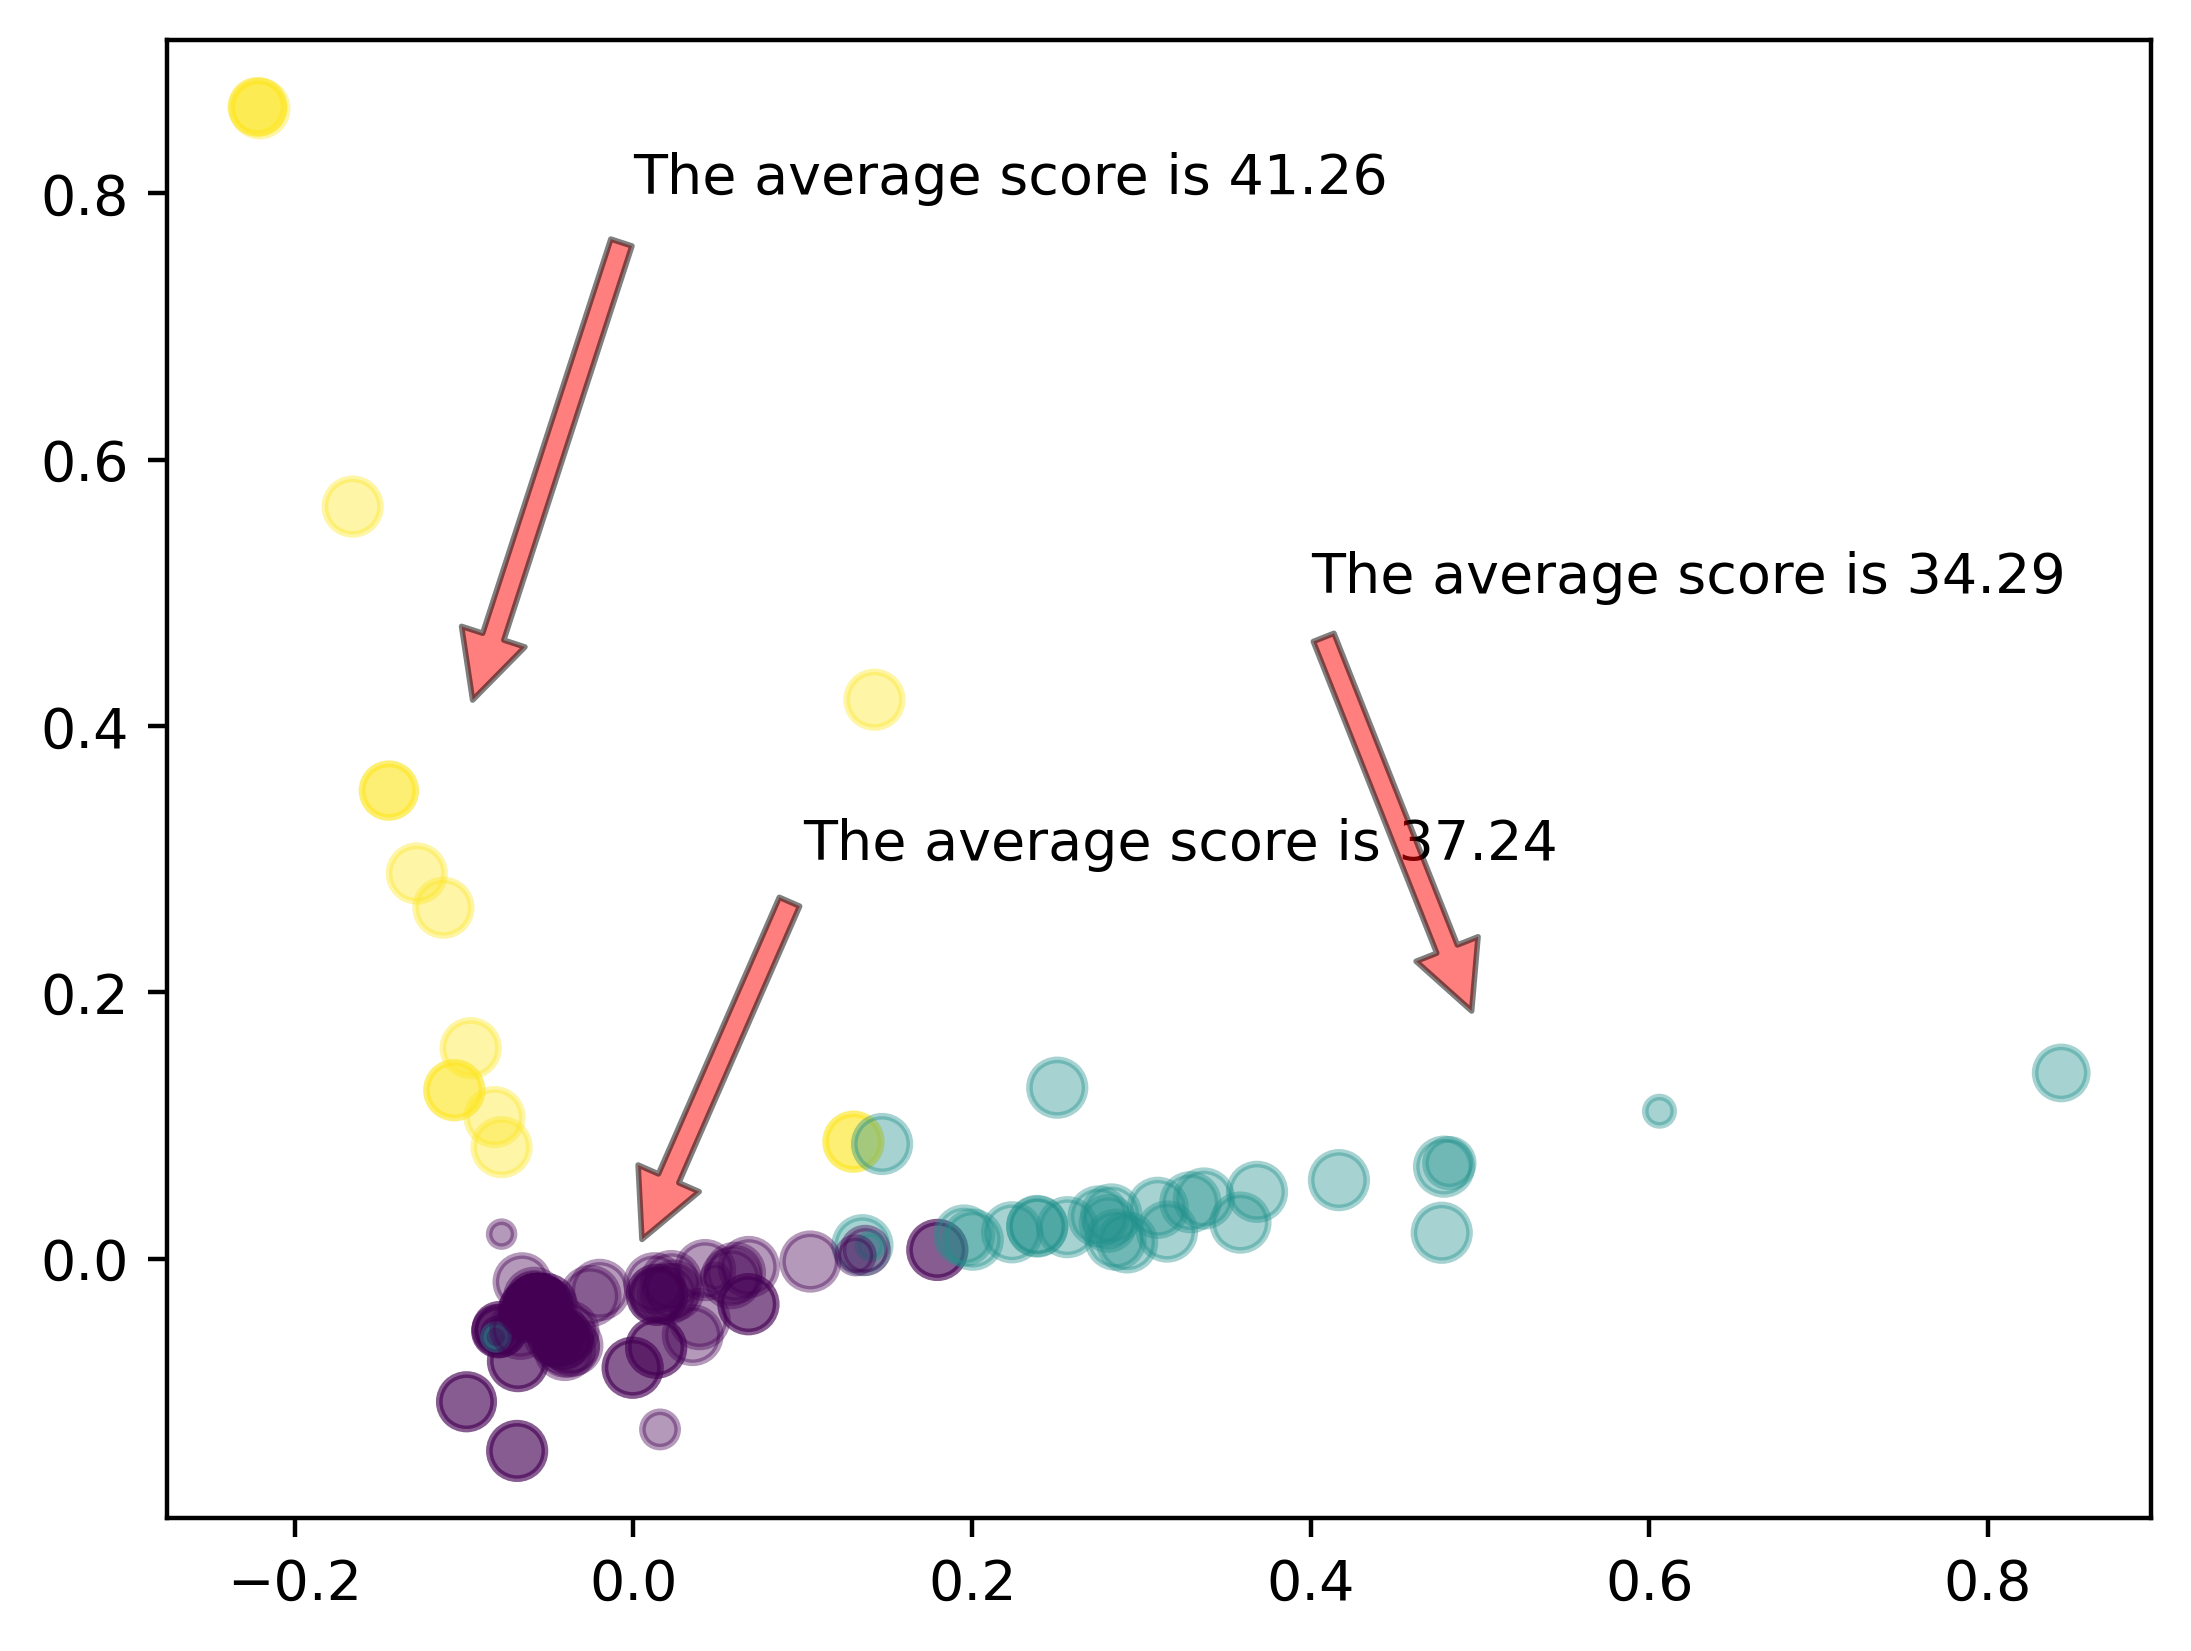
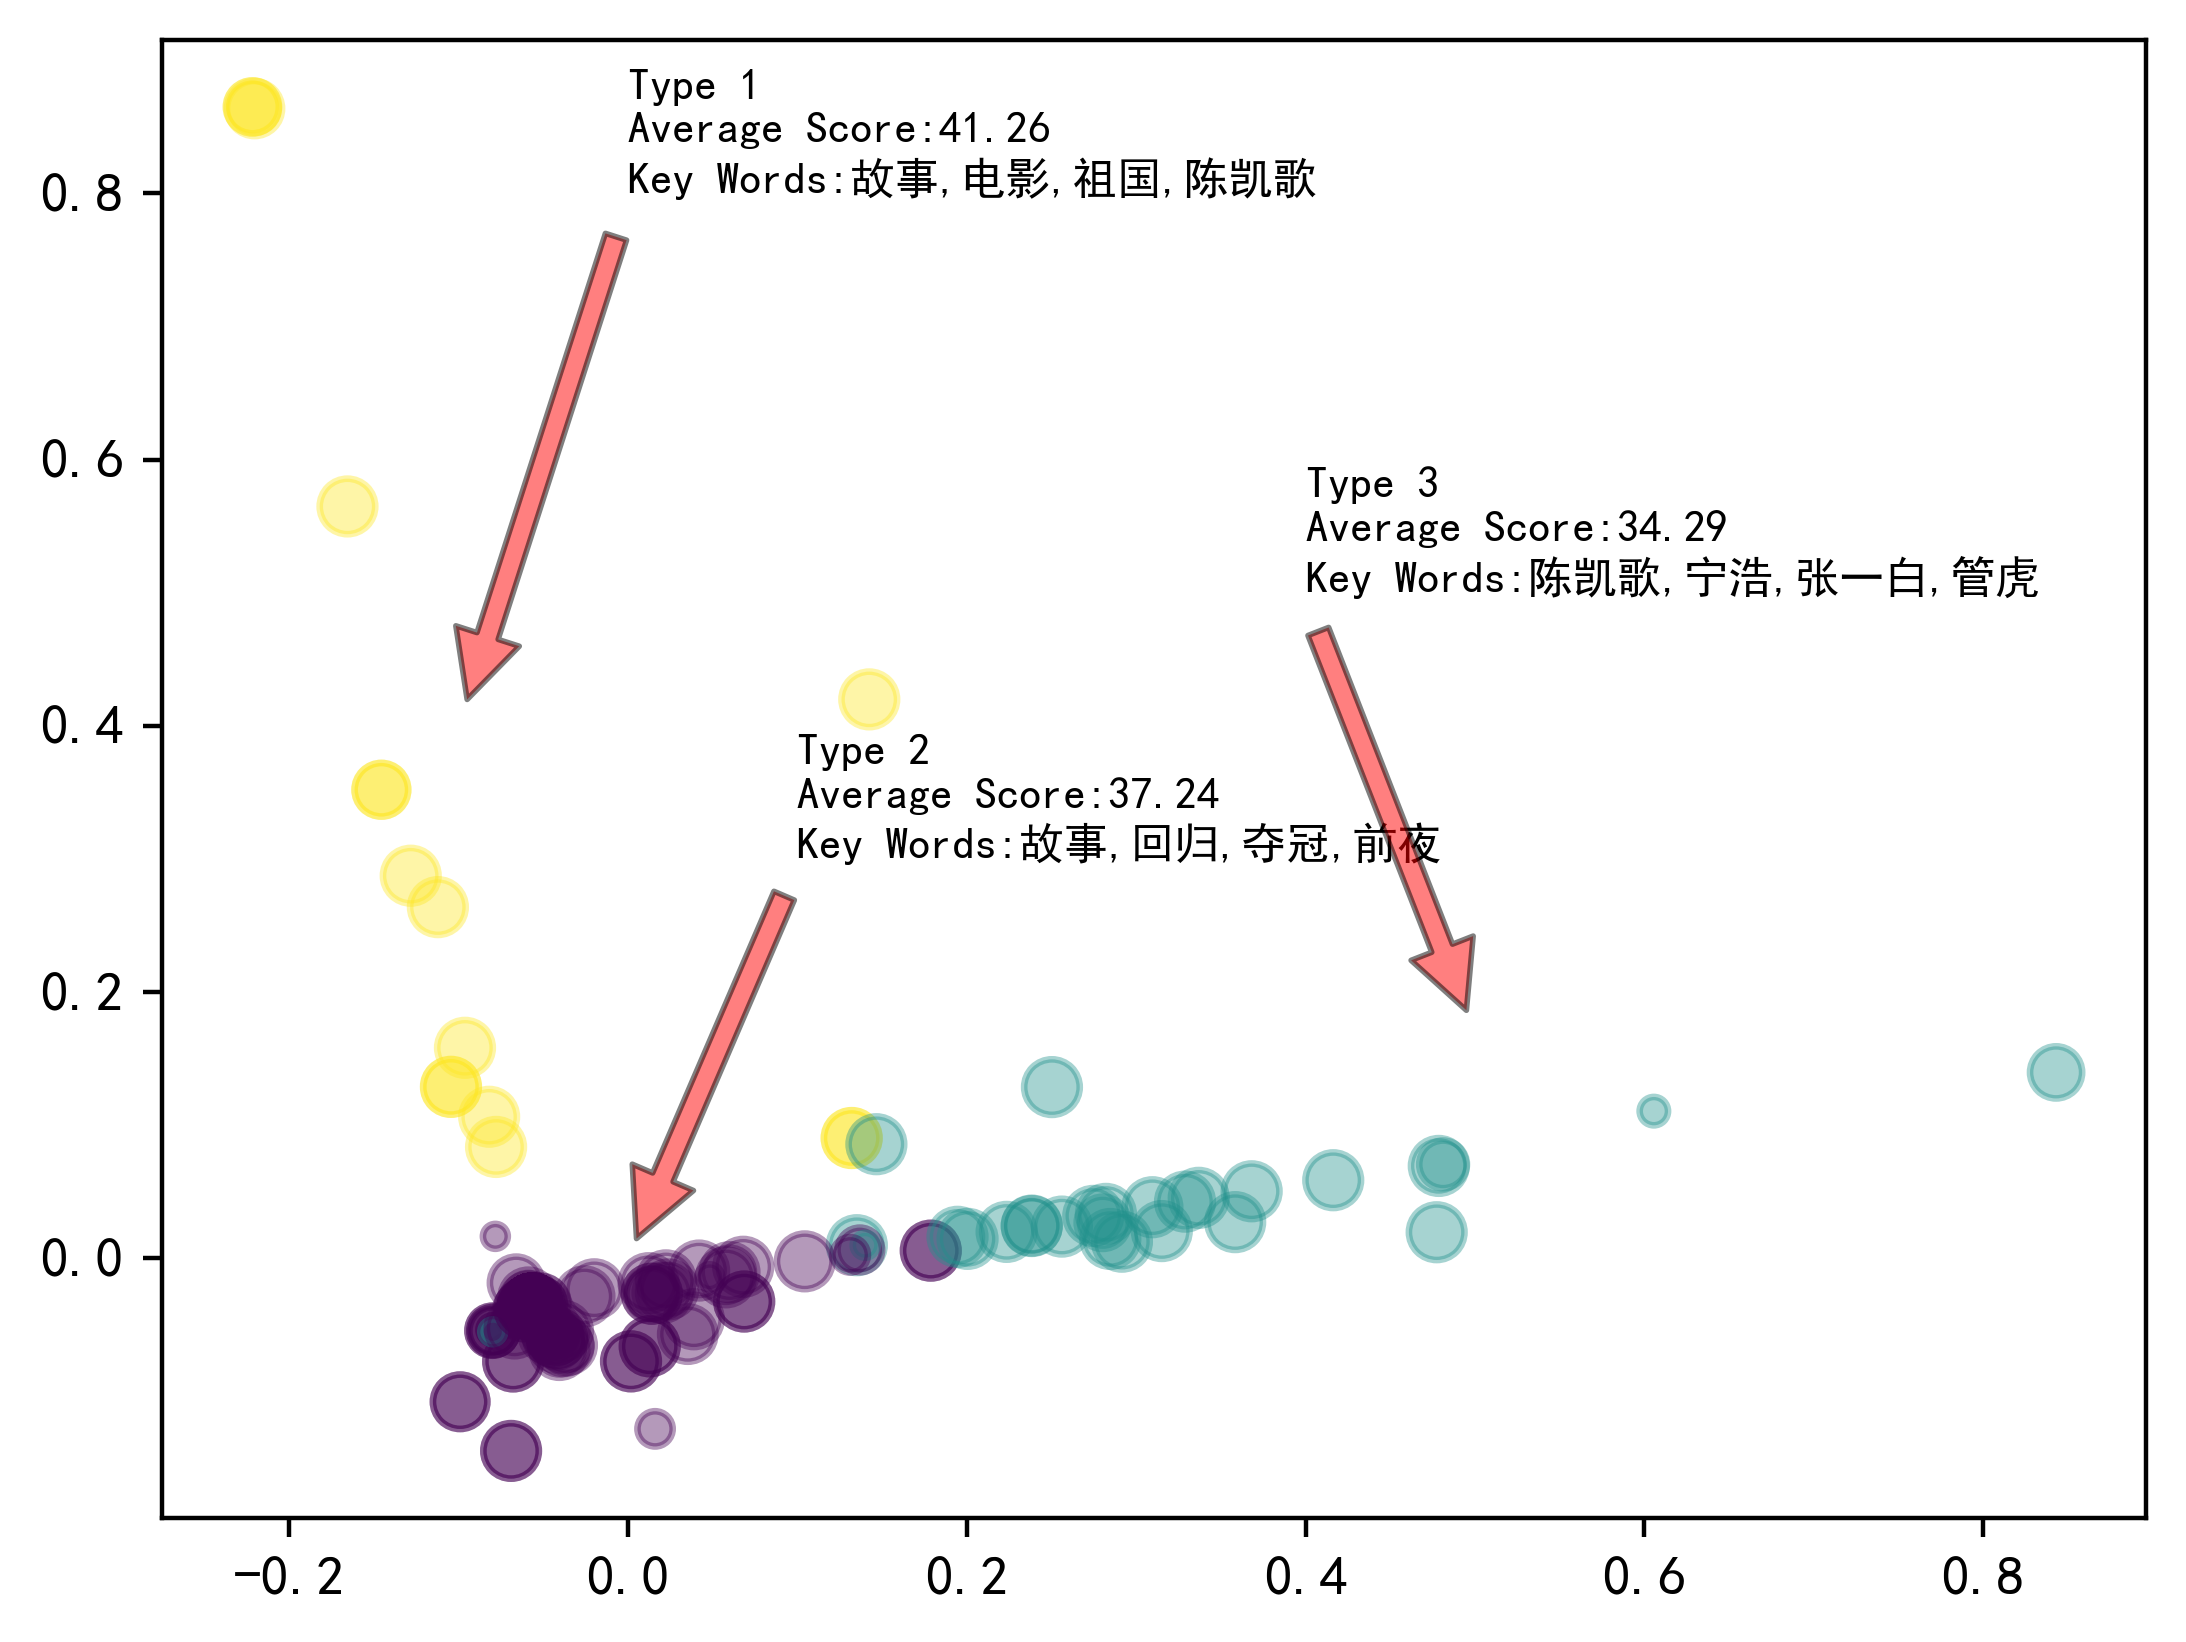
添加分类后提取关键词方法

diff --git a/Paper/Movie/py/tf_idf_k_means.py b/Paper/Movie/py/tf_idf_k_means.py
@@ -12,6 +12,8 @@ from sklearn.feature_extraction.text import TfidfVectorizer
 from sklearn.cluster import KMeans
 from sklearn.decomposition import PCA
 import matplotlib.pyplot as plt
+from textrank4zh import TextRank4Keyword
+
 from Paper.Movie.util import wordUtil
 
 # 设置显示pd所有行
@@ -90,15 +92,55 @@ score_mean1 = data_m.iloc[list(data_m['label'] == 0), 2].astype('float').mean()
 score_mean2 = data_m.iloc[list(data_m['label'] == 1), 2].astype('float').mean()
 score_mean3 = data_m.iloc[list(data_m['label'] == 2), 2].astype('float').mean()
 print('score_mean1:', score_mean1)
+'''获得每一类的关键词'''
+print('data:\n', data)
+label_0_list = data.loc[list(data['label'] == 0), '评论内容'].values
+label_1_list = data.loc[list(data['label'] == 1), '评论内容'].values
+label_2_list = data.loc[list(data['label'] == 2), '评论内容'].values
+sentence_0 = '。'.join(label_0_list)
+sentence_1 = '。'.join(label_1_list)
+sentence_2 = '。'.join(label_2_list)
+key_words_num = 4
+words = TextRank4Keyword()
+words.analyze(text=sentence_0, lower=True, window=key_words_num)
+keywords_dic_list = words.get_keywords(key_words_num, word_min_len=2)
+keywords_list = []
+for item in keywords_dic_list:
+    keywords_list.append(item['word'])
+keywords0 = ','.join(keywords_list)
 
+words = TextRank4Keyword()
+words.analyze(text=sentence_1, lower=True, window=key_words_num)
+keywords_dic_list = words.get_keywords(key_words_num, word_min_len=2)
+keywords_list = []
+for item in keywords_dic_list:
+    keywords_list.append(item['word'])
+keywords1 = ','.join(keywords_list)
+
+words = TextRank4Keyword()
+words.analyze(text=sentence_2, lower=True, window=key_words_num)
+keywords_dic_list = words.get_keywords(key_words_num, word_min_len=2)
+keywords_list = []
+for item in keywords_dic_list:
+    keywords_list.append(item['word'])
+keywords2 = ','.join(keywords_list)
+print(keywords0)
+print(keywords1)
+print(keywords2)
+# 解决中文显示问题，目前只知道黑体可行
+plt.rcParams['font.sans-serif'] = ['SimHei']
+plt.rcParams['axes.unicode_minus']=False
 # 绘制降维后的分类结果
 plt.scatter(pca_results[:, 0], pca_results[:, 1], alpha=0.4, lw=1.2, s=comments_score, c=data['label'])
 # 绘制箭头
-plt.annotate('The average score is ' + str(round(score_mean1, 2)), xy=(-0.1, 0.4), xytext=(0, 0.8),
+plt.annotate('Type 1 \nAverage Score:' + str(round(score_mean1, 2)) + '\nKey Words:' + keywords0, xy=(-0.1, 0.4),
+             xytext=(0, 0.8), fontsize=8,
              arrowprops=dict(facecolor='red', alpha=0.5, shrink=0.05))  # 添加标注（箭头）（指向位置，文字位置，颜色，透明度，收缩比例）
-plt.annotate('The average score is ' + str(round(score_mean2, 2)), xy=(0, 0), xytext=(0.1, 0.3),
+plt.annotate('Type 2 \nAverage Score:' + str(round(score_mean2, 2)) + '\nKey Words:' + keywords1, xy=(0, 0),
+             xytext=(0.1, 0.3), fontsize=8,
              arrowprops=dict(facecolor='red', alpha=0.5, shrink=0.05))  # 添加标注（箭头）（指向位置，文字位置，颜色，透明度，收缩比例）
-plt.annotate('The average score is ' + str(round(score_mean3, 2)), xy=(0.5, 0.17), xytext=(0.4, 0.5),
+plt.annotate('Type 3 \nAverage Score:' + str(round(score_mean3, 2)) + '\nKey Words:' + keywords2, xy=(0.5, 0.17),
+             xytext=(0.4, 0.5), fontsize=8,
              arrowprops=dict(facecolor='red', alpha=0.5, shrink=0.05))  # 添加标注（箭头）（指向位置，文字位置，颜色，透明度，收缩比例）
 plt.savefig('../pic/k-means.png', dpi=400, bbox_inches='tight')
 plt.show()

diff --git a/Paper/Movie/py/score_byarea.py b/Paper/Movie/py/score_byarea.py
@@ -82,35 +82,35 @@ ax.plot(x1, y1, color='b', alpha=0.6)
 
 x_t = list(red_list.keys())
 y_t = list(red_list.values())
-ax.scatter(x_t, y_t, color='g', alpha=0.8, label='Operation Red Sea')
+ax.scatter(x_t, y_t, color='g', alpha=0.6, label='Operation Red Sea')
 a2, b2 = curve_fit(curve_fit_fun, x_t, y_t)[0]
 x2 = np.arange(min(x_t), max(x_t) + 1, 1)
 y2 = a2 * x2 + b2
-ax.plot(x2, y2, color='g', alpha=0.8)
+ax.plot(x2, y2, color='g', alpha=0.6)
 
 x_t = list(th_list.keys())
 y_t = list(th_list.values())
-ax.scatter(x_t, y_t, color='r', alpha=0.8, label='Three Billboards Outside')
+ax.scatter(x_t, y_t, color='r', alpha=0.6, label='Three Billboards Outside')
 a3, b3 = curve_fit(curve_fit_fun, x_t, y_t)[0]
 x3 = np.arange(min(x_t), max(x_t) + 1, 1)
 y3 = a3 * x3 + b3
-ax.plot(x3, y3, color='r', alpha=0.8)
+ax.plot(x3, y3, color='r', alpha=0.6)
 
 x_t = list(earth_list.keys())
 y_t = list(earth_list.values())
-ax.scatter(x_t, y_t, color='c', alpha=0.8, label='The Wandering Earth')
+ax.scatter(x_t, y_t, color='c', alpha=0.6, label='The Wandering Earth')
 a4, b4 = curve_fit(curve_fit_fun, x_t, y_t)[0]
 x4 = np.arange(min(x_t), max(x_t) + 1, 1)
 y4 = a4 * x4 + b4
-ax.plot(x4, y4, color='c', alpha=0.8)
+ax.plot(x4, y4, color='c', alpha=0.6)
 
 x_t = list(dark_list.keys())
 y_t = list(dark_list.values())
-ax.scatter(x_t, y_t, color='y', alpha=0.8, label='Ne Zha')
+ax.scatter(x_t, y_t, color='y', alpha=0.6, label='Ne Zha')
 a5, b5 = curve_fit(curve_fit_fun, x_t, y_t)[0]
 x5 = np.arange(min(x_t), max(x_t) + 1, 1)
 y5 = a5 * x5 + b5
-ax.plot(x5, y5, color='y', alpha=0.8)
+ax.plot(x5, y5, color='y', alpha=0.6)
 # 折线平滑
 # window_length = 3  # 窗口长度，越大平滑越明显
 # polyorder = 1  # 多项式拟合的阶数，越小平滑越明显
@@ -123,5 +123,5 @@ plt.ylabel('Average Score')
 plt.xlabel('Attention to domestic films')
 plt.xticks([1, 2, 3, 4, 5, 6, 7, 8], [0.125, 0.25, 0.375, 0.5, 0.625, 0.75, 0.875, 1])
 # plt.xlim([0, 9])
-plt.savefig('../pic/like.png', dpi=400, bbox_inches='tight')
+plt.savefig('../pic/like.png', dpi=600, bbox_inches='tight')
 plt.show()
